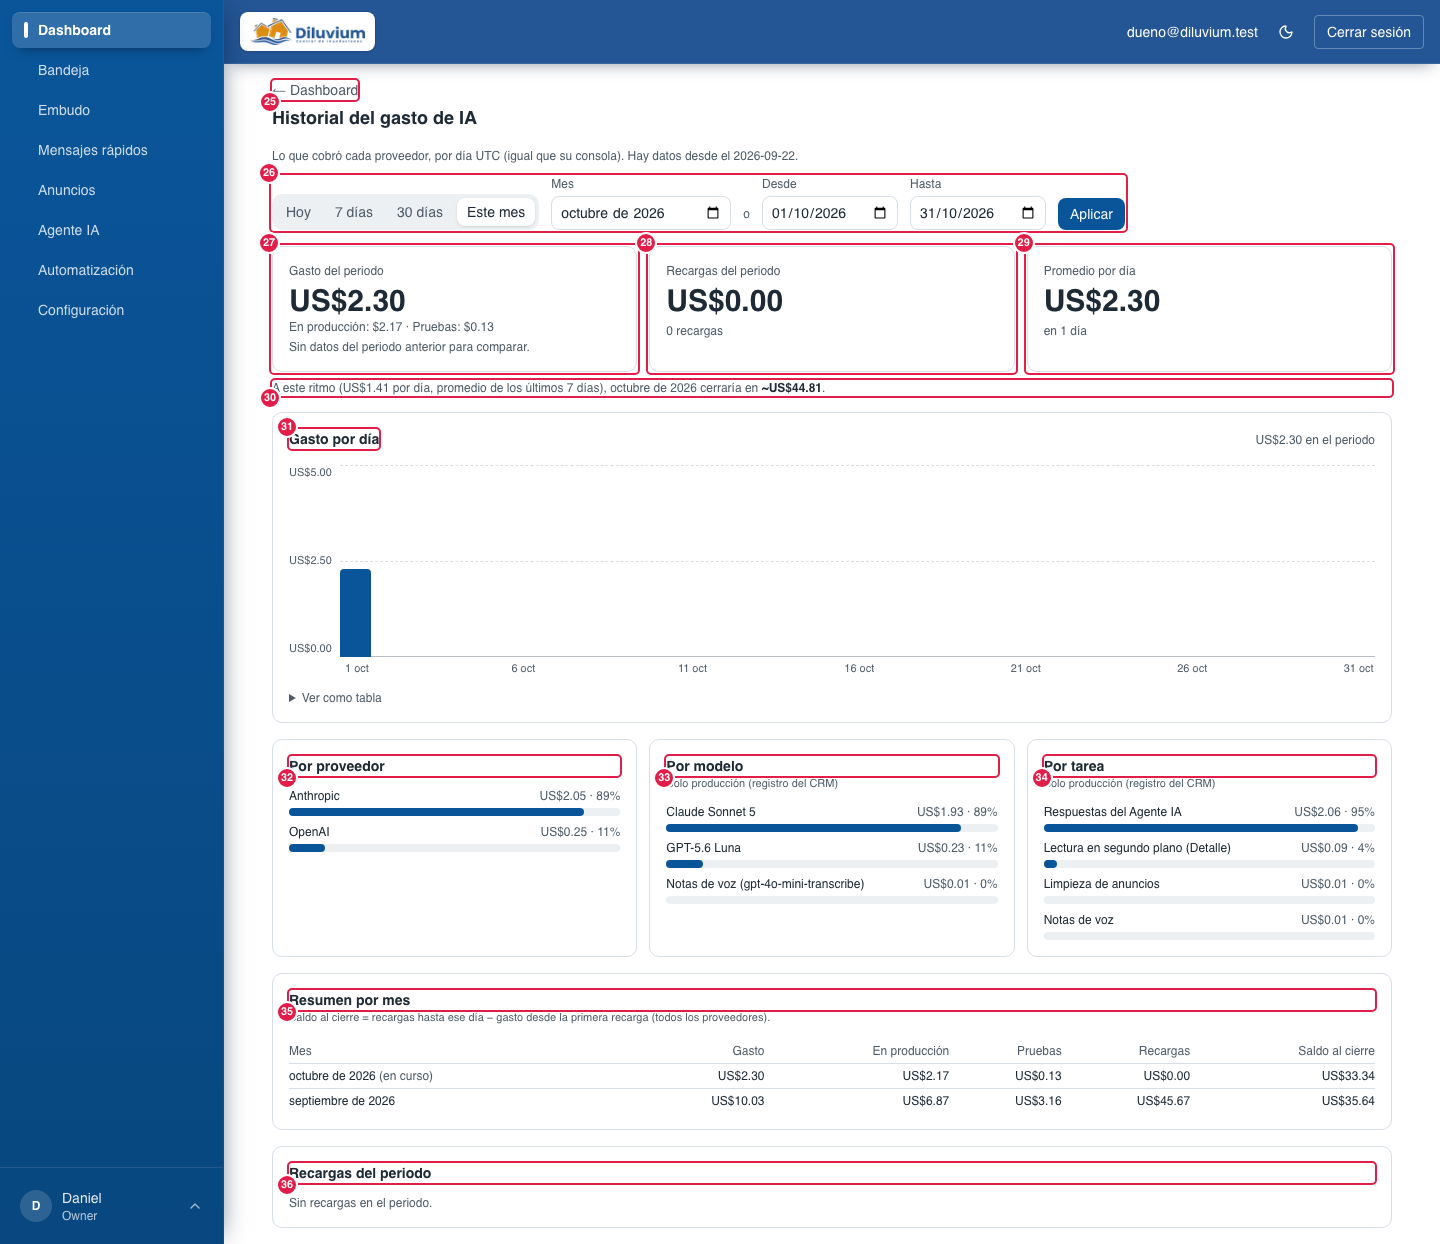
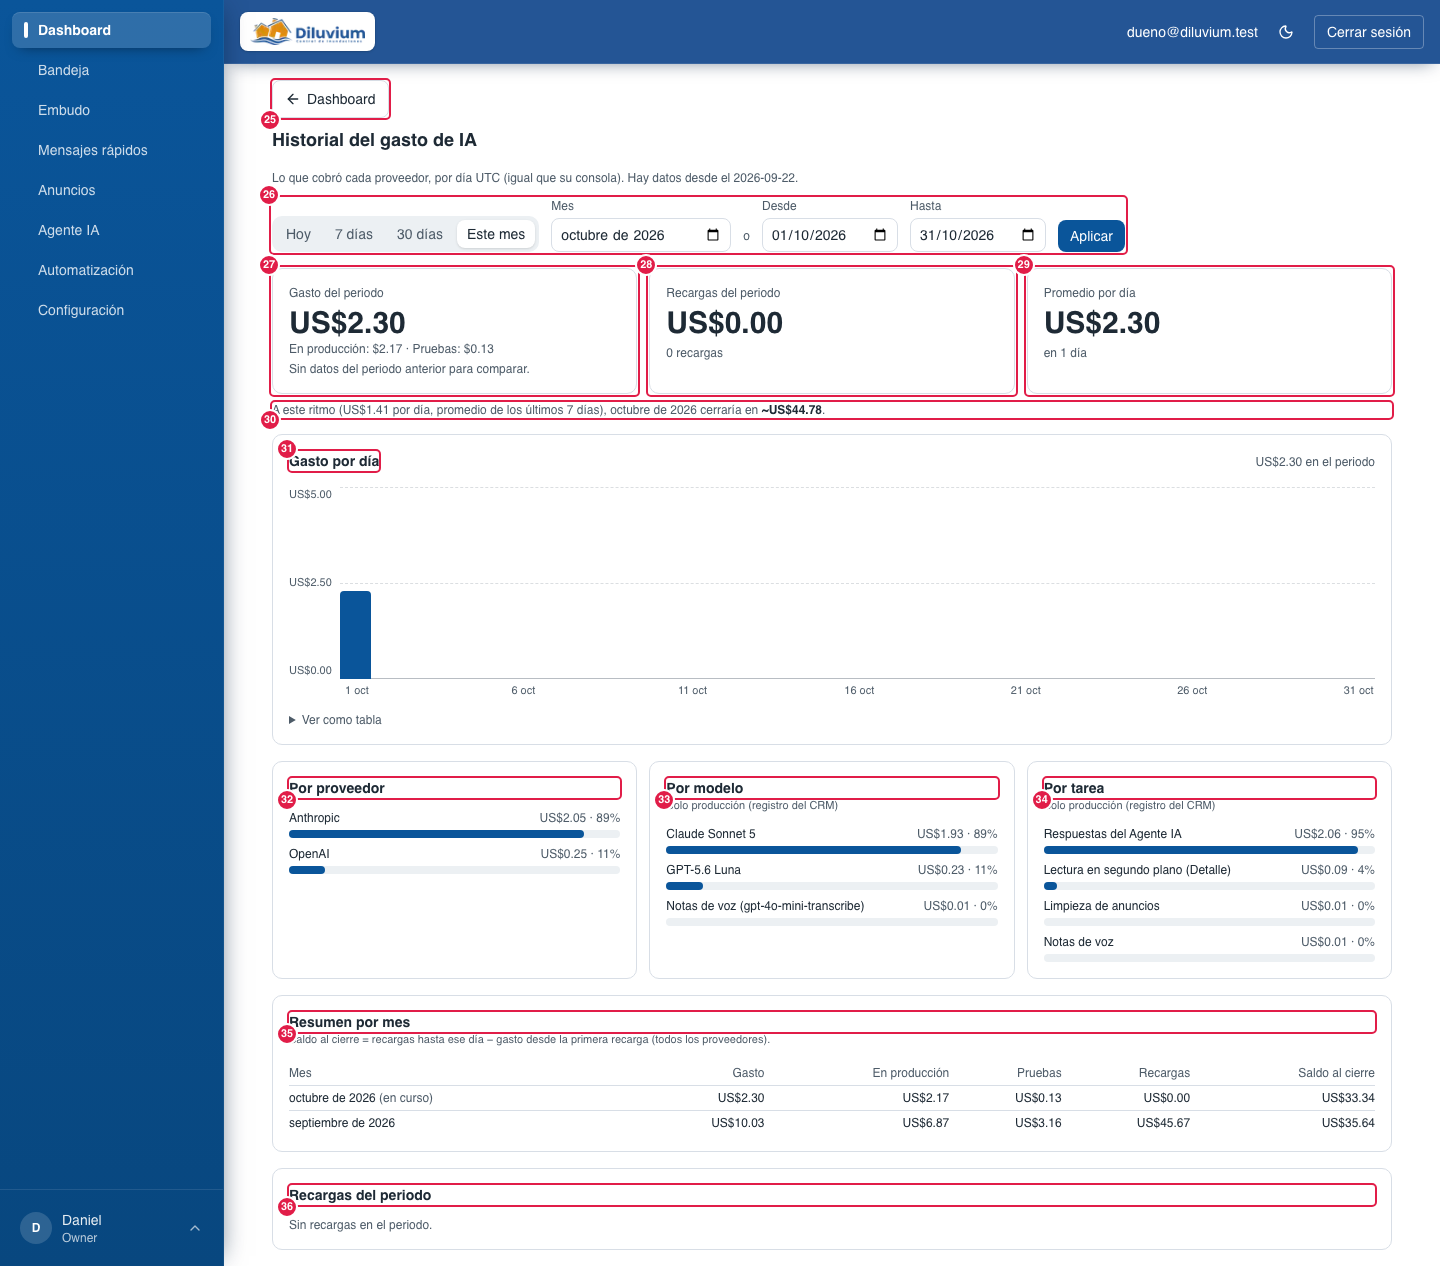
fix(gasto-ia): «← Dashboard» es un botón igual que «← Workflows» de Automatización (en el celular solo la flecha); mapa y captura al día

diff --git a/app/(app)/inicio/gasto-ia/page.tsx b/app/(app)/inicio/gasto-ia/page.tsx
@@ -1,3 +1,4 @@
+import { ArrowLeft } from "lucide-react";
 import Link from "next/link";
 import { notFound } from "next/navigation";
 import { requireActiveMembership } from "@/lib/auth/active-organization";
@@ -31,9 +32,16 @@ export default async function GastoIaPage({ searchParams }: PageProps<"/inicio/g
 
   return (
     <div className="mx-auto flex w-full max-w-6xl flex-col gap-4 p-4">
-      <div className="flex flex-col gap-1">
-        <Link href="/inicio" className="w-fit text-sm text-muted-foreground hover:text-foreground">
-          ← Dashboard
+      <div className="flex flex-col gap-2">
+        {/* Igual que «← Workflows» de Automatización (pedido del dueño, 1-oct-2026). */}
+        <Link
+          href="/inicio"
+          aria-label="Regresar a Dashboard"
+          title="Regresar a Dashboard"
+          className="flex w-fit shrink-0 items-center gap-1.5 rounded-md border px-3 py-2 text-sm font-medium hover:bg-muted"
+        >
+          <ArrowLeft className="size-4" aria-hidden="true" />
+          <span className="max-sm:hidden">Dashboard</span>
         </Link>
         <h1 className="text-lg font-semibold">Historial del gasto de IA</h1>
       </div>

diff --git a/docs/mapa-crm.md b/docs/mapa-crm.md
@@ -201,7 +201,7 @@ siguiente. Hay datos desde el 22-sep-2026 (la primera recarga). Desde el 1-oct-2
 
 | # | Nombre oficial | Qué hace | Quién lo ve |
 |---|---|---|---|
-| 25 | **← Dashboard** | Regresa al Dashboard. | Todos |
+| 25 | **← Dashboard** (botón) | Regresa al Dashboard. Es el mismo botón que «← Workflows» de Automatización; en el celular solo se ve la flecha. | Todos |
 | 26 | **Hoy · 7 días · 30 días · Este mes · Mes · Desde / Hasta · Aplicar** | El periodo, igual que en Conversaciones nuevas (los días de los atajos son UTC). | Todos |
 | 27 | **Gasto del periodo** | Lo que cobraron los proveedores en el periodo, con **«En producción: $X · Pruebas: $Y»** y la comparación (▲ más, ▼ menos) contra el periodo anterior al mismo día (el mes pasado si eliges un mes). Si el periodo anterior es de antes de que hubiera datos, dice «Sin datos del periodo anterior para comparar». | Todos |
 | 28 | **Recargas del periodo** | Suma de las recargas registradas con fecha en el periodo y cuántas son. | Todos |
